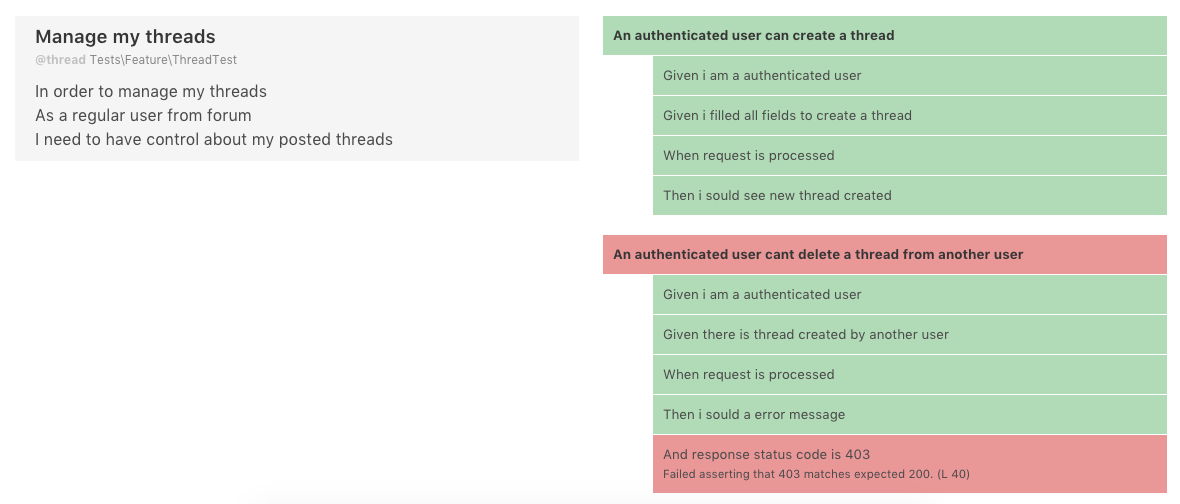
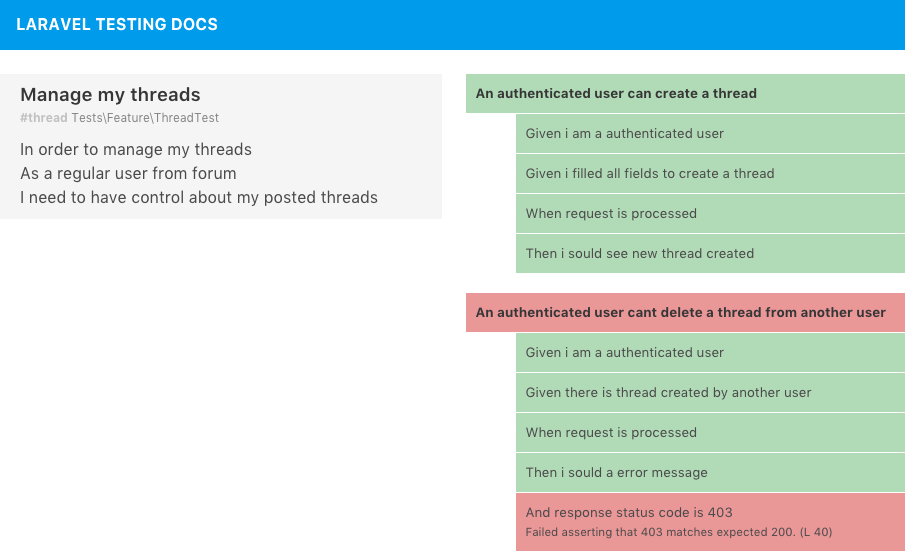
improving docs

Changed region(s): [[0.0, 0.0, 1.0, 1.0]]

diff --git a/src/views/index.blade.php b/src/views/index.blade.php
@@ -12,7 +12,7 @@
         <div class="column">
             <div class="feature">
                 <h1 class="title">{{ $feature->title }}</h1>
-                <p class="class"><strong>{{ '@'.$feature->tag }}</strong> {{ $feature->class }}</p>
+                <p class="class"><strong>{{ '#'.$feature->tag }}</strong> {{ $feature->class }}</p>
                 <h2>{!! $feature->description !!} </h2>
             </div>
         </div>

diff --git a/README.md b/README.md
@@ -7,7 +7,7 @@
 
 Make your tests as usual and include only the comments you need to generate the reports.
 
-Develop your software using TDD with clean workflow and get a bonus with zero effort: living docs.
+Develop your software using TDD with clean workflow and get a bonus with zero effort: **living docs**.
 
 
 # Background
@@ -41,7 +41,7 @@ You can also get a detailed report of your tests when using [plugins](https://gi
 
 # Well, and if ... :bulb: :bulb: :bulb:
 
-And if we could to have same result (structured tests and reports) with zero config, only using Laravel Testing Suite, simpling commenting your testing files?
+And if we could to have same result (structured tests and reports) with **zero config**, only using Laravel Testing Suite, simpling commenting your testing files?
 
 Well, we develop our software using TDD with clean workflow and get a bonus with almost zero effort: **living docs**.
 
@@ -179,7 +179,7 @@ class ThreadTest extends TestCase
  
 # Inspiration
 - [Behat](http://behat.org/en/latest/guides.html)
-- [Behate html formatter plugin](https://github.com/dutchiexl/BehatHtmlFormatterPlugin)
+- [Behat html formatter plugin](https://github.com/dutchiexl/BehatHtmlFormatterPlugin)
 
 
 # TODO
